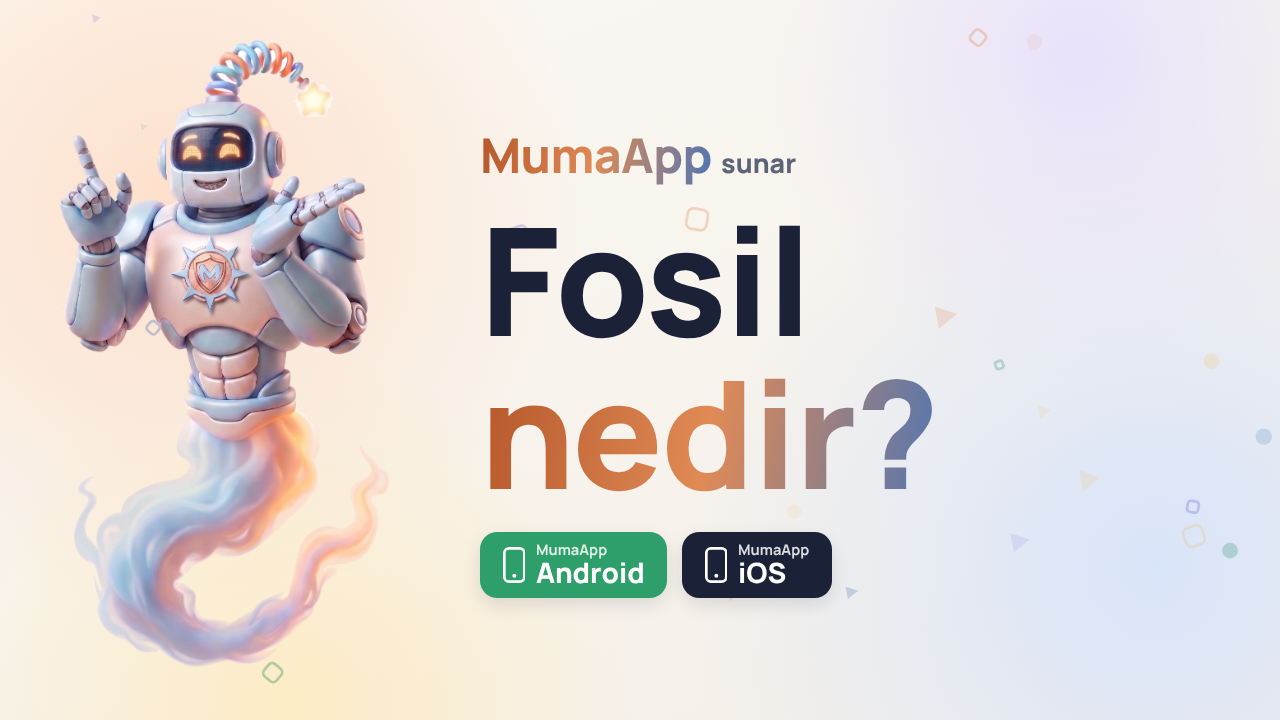
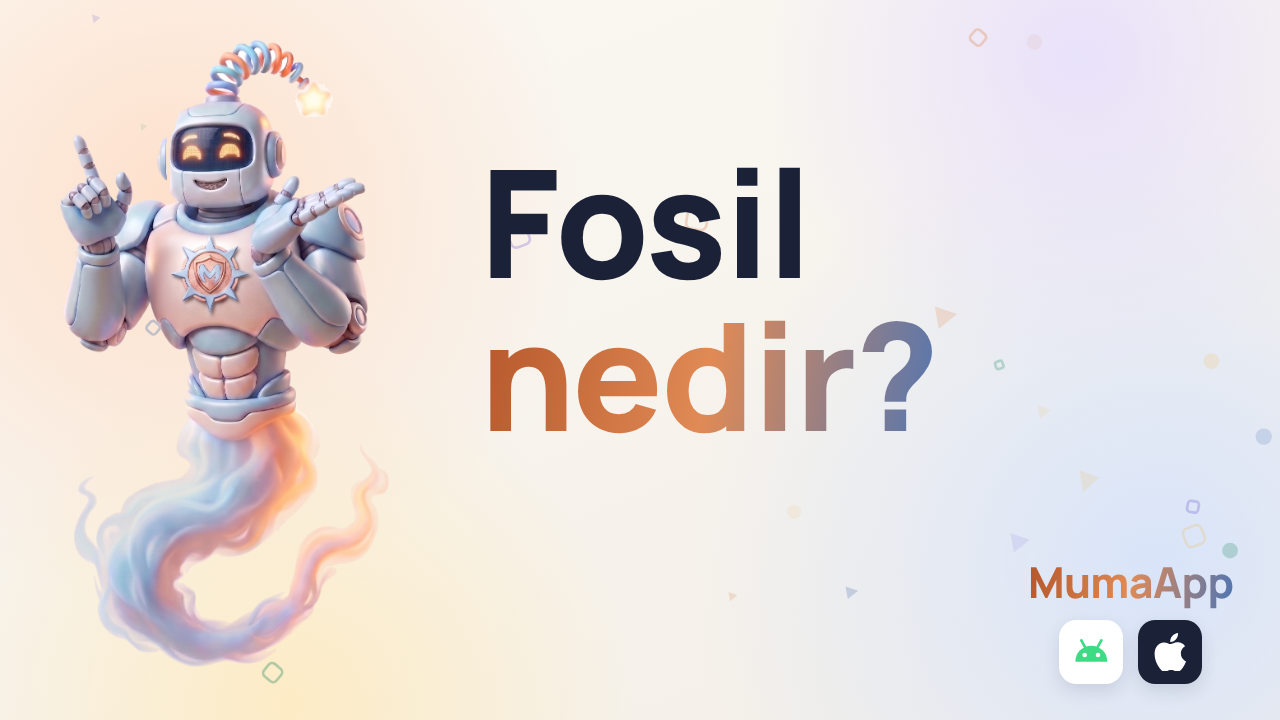
Kapak: MumaApp sağ alt köşede, altında yazısız Android/iOS simgeleri
Claude-Session: https://claude.ai/code/session_01Fyf4Zw3WQhTye8DyEbugfR

Changed region(s): [[0.375, 0.1833, 0.75, 0.7028], [0.375, 0.7333, 0.6562, 0.8556], [0.7812, 0.7944, 0.9688, 0.9472]]

diff --git a/video/Thumbnail.tsx b/video/Thumbnail.tsx
@@ -17,11 +17,7 @@ export const Thumbnail: React.FC<EpisodeProps> = ({ script, paper }) => {
       {/* thumbnail'de yüksek çözünürlüklü özgün görsel kullanılır */}
       <Img src={staticFile("robot/point.png")} style={{ height: 940 }} />
     </div>
-    <div style={{ position: "absolute", left: 720, right: 70, top: 80, bottom: 80, display: "flex", flexDirection: "column", justifyContent: "center", gap: 22 }}>
-      <div style={{ alignSelf: "flex-start", display: "flex", alignItems: "baseline", gap: 14, fontFamily: F.head }}>
-        <span style={{ fontWeight: 900, fontSize: 72, letterSpacing: -1, backgroundImage: GRADIENT, WebkitBackgroundClip: "text", backgroundClip: "text", color: "transparent" }}>MumaApp</span>
-        <span style={{ fontWeight: 800, fontSize: 40, color: C.dim }}>sunar</span>
-      </div>
+    <div style={{ position: "absolute", left: 720, right: 70, top: 60, bottom: 250, display: "flex", flexDirection: "column", justifyContent: "center", gap: 22 }}>
       {/* Konu bölümlerinde rozet yok (kullanıcı kararı): başlık kapağı doldurur. */}
       {paper.kind !== "topic" && (
         <div style={{ alignSelf: "flex-start", background: C.teal, color: C.ink, fontFamily: F.head, fontWeight: 900, fontSize: 50, padding: "12px 38px", borderRadius: 50 }}>
@@ -31,21 +27,26 @@ export const Thumbnail: React.FC<EpisodeProps> = ({ script, paper }) => {
       <div style={{ fontFamily: F.head, fontWeight: 900, fontSize: paper.kind !== "topic" ? (len > 48 ? 96 : 118) : len <= 14 ? 225 : len <= 24 ? 185 : len <= 40 ? 145 : 112, lineHeight: 1.02, letterSpacing: -3, color: C.text }}>
         {head}{head ? " " : ""}<span style={{ backgroundImage: GRADIENT, WebkitBackgroundClip: "text", backgroundClip: "text", color: "transparent" }}>{last}</span>
       </div>
-      {/* Yapımcı ve mağaza rozetleri: kendi çizimimiz (resmî mağaza logoları kullanılmaz). */}
-      <div style={{ display: "flex", alignItems: "center", gap: 22, marginTop: 14 }}>
-        {[["Android", "#2E9E6B"], ["iOS", C.text]].map(([label, bg]) => (
-          <div key={label} style={{ display: "flex", alignItems: "center", gap: 16, background: bg, color: "#fff", borderRadius: 26, padding: "16px 34px", boxShadow: `0 10px 26px ${C.shadow}` }}>
-            <svg width={34} height={54} viewBox="0 0 34 54"><rect x={2} y={2} width={30} height={50} rx={7} fill="none" stroke="#fff" strokeWidth={4} /><circle cx={17} cy={43} r={3} fill="#fff" /></svg>
-            <div style={{ fontFamily: F.head, lineHeight: 1.05 }}>
-              <div style={{ fontWeight: 700, fontSize: 22, opacity: 0.85 }}>MumaApp</div>
-              <div style={{ fontWeight: 900, fontSize: 42 }}>{label}</div>
-            </div>
-          </div>
-        ))}
-      </div>
       {paper.isPreprint && (
         <div style={{ alignSelf: "flex-start", background: C.coral, color: C.ink, fontFamily: F.head, fontWeight: 900, fontSize: 38, padding: "8px 28px", borderRadius: 30 }}>ÖN BASKI</div>
       )}
+    </div>
+    {/* Sağ alt köşe: yapımcı adı, altında platform simgeleri (yazısız). */}
+    <div style={{ position: "absolute", right: 70, bottom: 54, display: "flex", flexDirection: "column", alignItems: "center", gap: 14 }}>
+      <div style={{ fontFamily: F.head, fontWeight: 900, fontSize: 64, letterSpacing: -1, backgroundImage: GRADIENT, WebkitBackgroundClip: "text", backgroundClip: "text", color: "transparent" }}>MumaApp</div>
+      <div style={{ display: "flex", gap: 22 }}>
+        <div style={{ width: 96, height: 96, borderRadius: 26, background: "#fff", display: "flex", alignItems: "center", justifyContent: "center", boxShadow: `0 10px 26px ${C.shadow}` }}>
+          <svg width={64} height={64} viewBox="0 0 64 64">
+            <path d="M8 46 A24 24 0 0 1 56 46 Z" fill="#3DDC84" />
+            <line x1={17} y1={14} x2={23} y2={25} stroke="#3DDC84" strokeWidth={4} strokeLinecap="round" />
+            <line x1={47} y1={14} x2={41} y2={25} stroke="#3DDC84" strokeWidth={4} strokeLinecap="round" />
+            <circle cx={22} cy={36} r={3.4} fill="#fff" /><circle cx={42} cy={36} r={3.4} fill="#fff" />
+          </svg>
+        </div>
+        <div style={{ width: 96, height: 96, borderRadius: 26, background: C.text, display: "flex", alignItems: "center", justifyContent: "center", boxShadow: `0 10px 26px ${C.shadow}` }}>
+          <svg width={58} height={58} viewBox="0 0 24 24"><path fill="#fff" d="M12.152 6.896c-.948 0-2.415-1.078-3.96-1.04-2.04.027-3.91 1.183-4.961 3.014-2.117 3.675-.546 9.103 1.519 12.09 1.013 1.454 2.208 3.09 3.792 3.039 1.52-.065 2.09-.987 3.935-.987 1.831 0 2.35.987 3.96.948 1.637-.026 2.676-1.48 3.676-2.948 1.156-1.688 1.636-3.325 1.662-3.415-.039-.013-3.182-1.221-3.22-4.857-.026-3.04 2.48-4.494 2.597-4.559-1.429-2.09-3.623-2.324-4.39-2.376-2-.156-3.675 1.09-4.61 1.09zM15.53 3.83c.843-1.012 1.4-2.427 1.245-3.83-1.207.052-2.662.805-3.532 1.818-.78.896-1.454 2.338-1.273 3.714 1.338.104 2.715-.688 3.559-1.701" /></svg>
+        </div>
+      </div>
     </div>
   </AbsoluteFill>
   );

diff --git a/CLAUDE.md b/CLAUDE.md
@@ -75,7 +75,7 @@ Uçtan uca: konu bölümü `npm run episode -- --topic "<soru>"` (fetch/select a
 - Sahne tipleri: `hook`, `source-card`, `big-number`, `bar-chart`, `line-chart`, `comparison`, `diagram`, `analogy` (şablonlar: `scale`, `fill`, `race`, `zoom`), `quote-card`, `bullets`, `clock`, `spotlight`, `stages`, `meter`, `song`, `outro`. Aynı tip art arda gelmez.
 - **Karakter her zaman kullanıcının verdiği robottur** (cin kuyruklu, yay antenli, göğsünde "M" amblemi). Başka karakter kullanılmaz. Görseller `public/robot/` altında, `tools/cutout.py` ile saydam zeminli kesildi. Pozlar: `point` (parmak havada + açık el; yüksek çözünürlüklü özgün görselden), `crossed` (kollar kavuşuk), `book` (kitap okur), `thumbs` (başparmak), `wave` (el sallar), `fly` (kollar açık; yalnızca uçarken). Poz, sahnede `mascot.pose` ile seçilir; verilmezse durumdan türetilir (`talk`/`point` → `point`, `idle`/`think` → `crossed` + düşünce baloncuğu) ve sahne tipine göre otomatik atanır: açılış ve veda `wave`, kaynak kartı `book`, kapanış `thumbs`. **Ağız sese göre oynar** (kullanıcı bunu özellikle beğendi; korunur): açıklık ses genliğinden, biçim o an söylenen kelimenin ünlüsünden gelir (a/e açık, ı/i yayvan ve dişli, o/ö/u/ü yuvarlak, m/b/p kapalı), Özgün ağız poz görsellerinden silinmiştir (`tools/mouthless.py` → `*.nomouth.png`) ve ağız her zaman yeniden çizilir; görselin üstüne yama konmaz (iz bırakıyordu). Anten yıldızı parlar, kuyruk salınır, sahneler arasında konum/ölçek yumuşak geçer; açılışta uçarak gelir, kapanışta uçarak gider (`MascotLayer.tsx`). Kollar yeniden çizilmez.
 - Videodan kare dizisiyle oynatma denendi ve geri alındı: kesim kalitesi düşüktü ve dudak eşlemesi kayboluyordu. Kullanıcı yeni klipler verirse `tools/cutout_video.py` ile işlenir; iyi sonuç için yüksek çözünürlük, düz tek renk zemin (gölgesiz), sabit kamera gerekir. **Karakterin adı: Muma.** Kendini "Ben Muma!" diye tanıtır.
-- **YouTube kapağı** (`out/thumbnail.png`, 1280×720): konu bölümlerinde "Günün Sorusu" rozeti yoktur; başlık büyük yazılır ve kapağı doldurur (kullanıcı kararı). Açılış sahnesindeki rozet durur. Başlığın üstünde "MumaApp sunar" yazar, altında Android ve iOS rozetleri durur (videoları MumaApp hazırlar; kullanıcı kararı). Rozetler kendi çizimimizdir; resmî mağaza logoları kullanıcı dosyalarını verirse eklenir.
+- **YouTube kapağı** (`out/thumbnail.png`, 1280×720): konu bölümlerinde "Günün Sorusu" rozeti yoktur; başlık büyük yazılır ve kapağı doldurur (kullanıcı kararı). Açılış sahnesindeki rozet durur. Sağ alt köşede "MumaApp" yazar, altında yazısız Android ve iOS simgeleri durur (videoları MumaApp hazırlar; kullanıcı kararı; "MumaApp sunar" ifadesi beğenilmedi).
 - Abone ol: sürenin ~%60'ına en yakın sahne sınırında kısa alt bant; kapanışta tam kart.
 - Kapanış: "Bugün bunu öğrendik" + 3 madde sırayla ✓ + "Bir sonraki bilim videosunda görüşürüz!" + abone ol + sonraki video; robot uçarak gider.
 - Stil: **açık ve sıcak** — kullanıcının sitesindeki (mumaapp-panel.web.app/tanitim) tonlar: krem zemin `#FBF8F3`, lacivert yazı `#1B2238`, kiremit→turuncu→mavi geçişli vurgu, beyaz kartlar, **Manrope** yazı tipi. Koyu zemin kullanılmaz (kullanıcı kararı). Arka planda pastel lekeler ve süzülen şekillerle hafif hareket. Tek kaynak: `video/theme.ts`.
